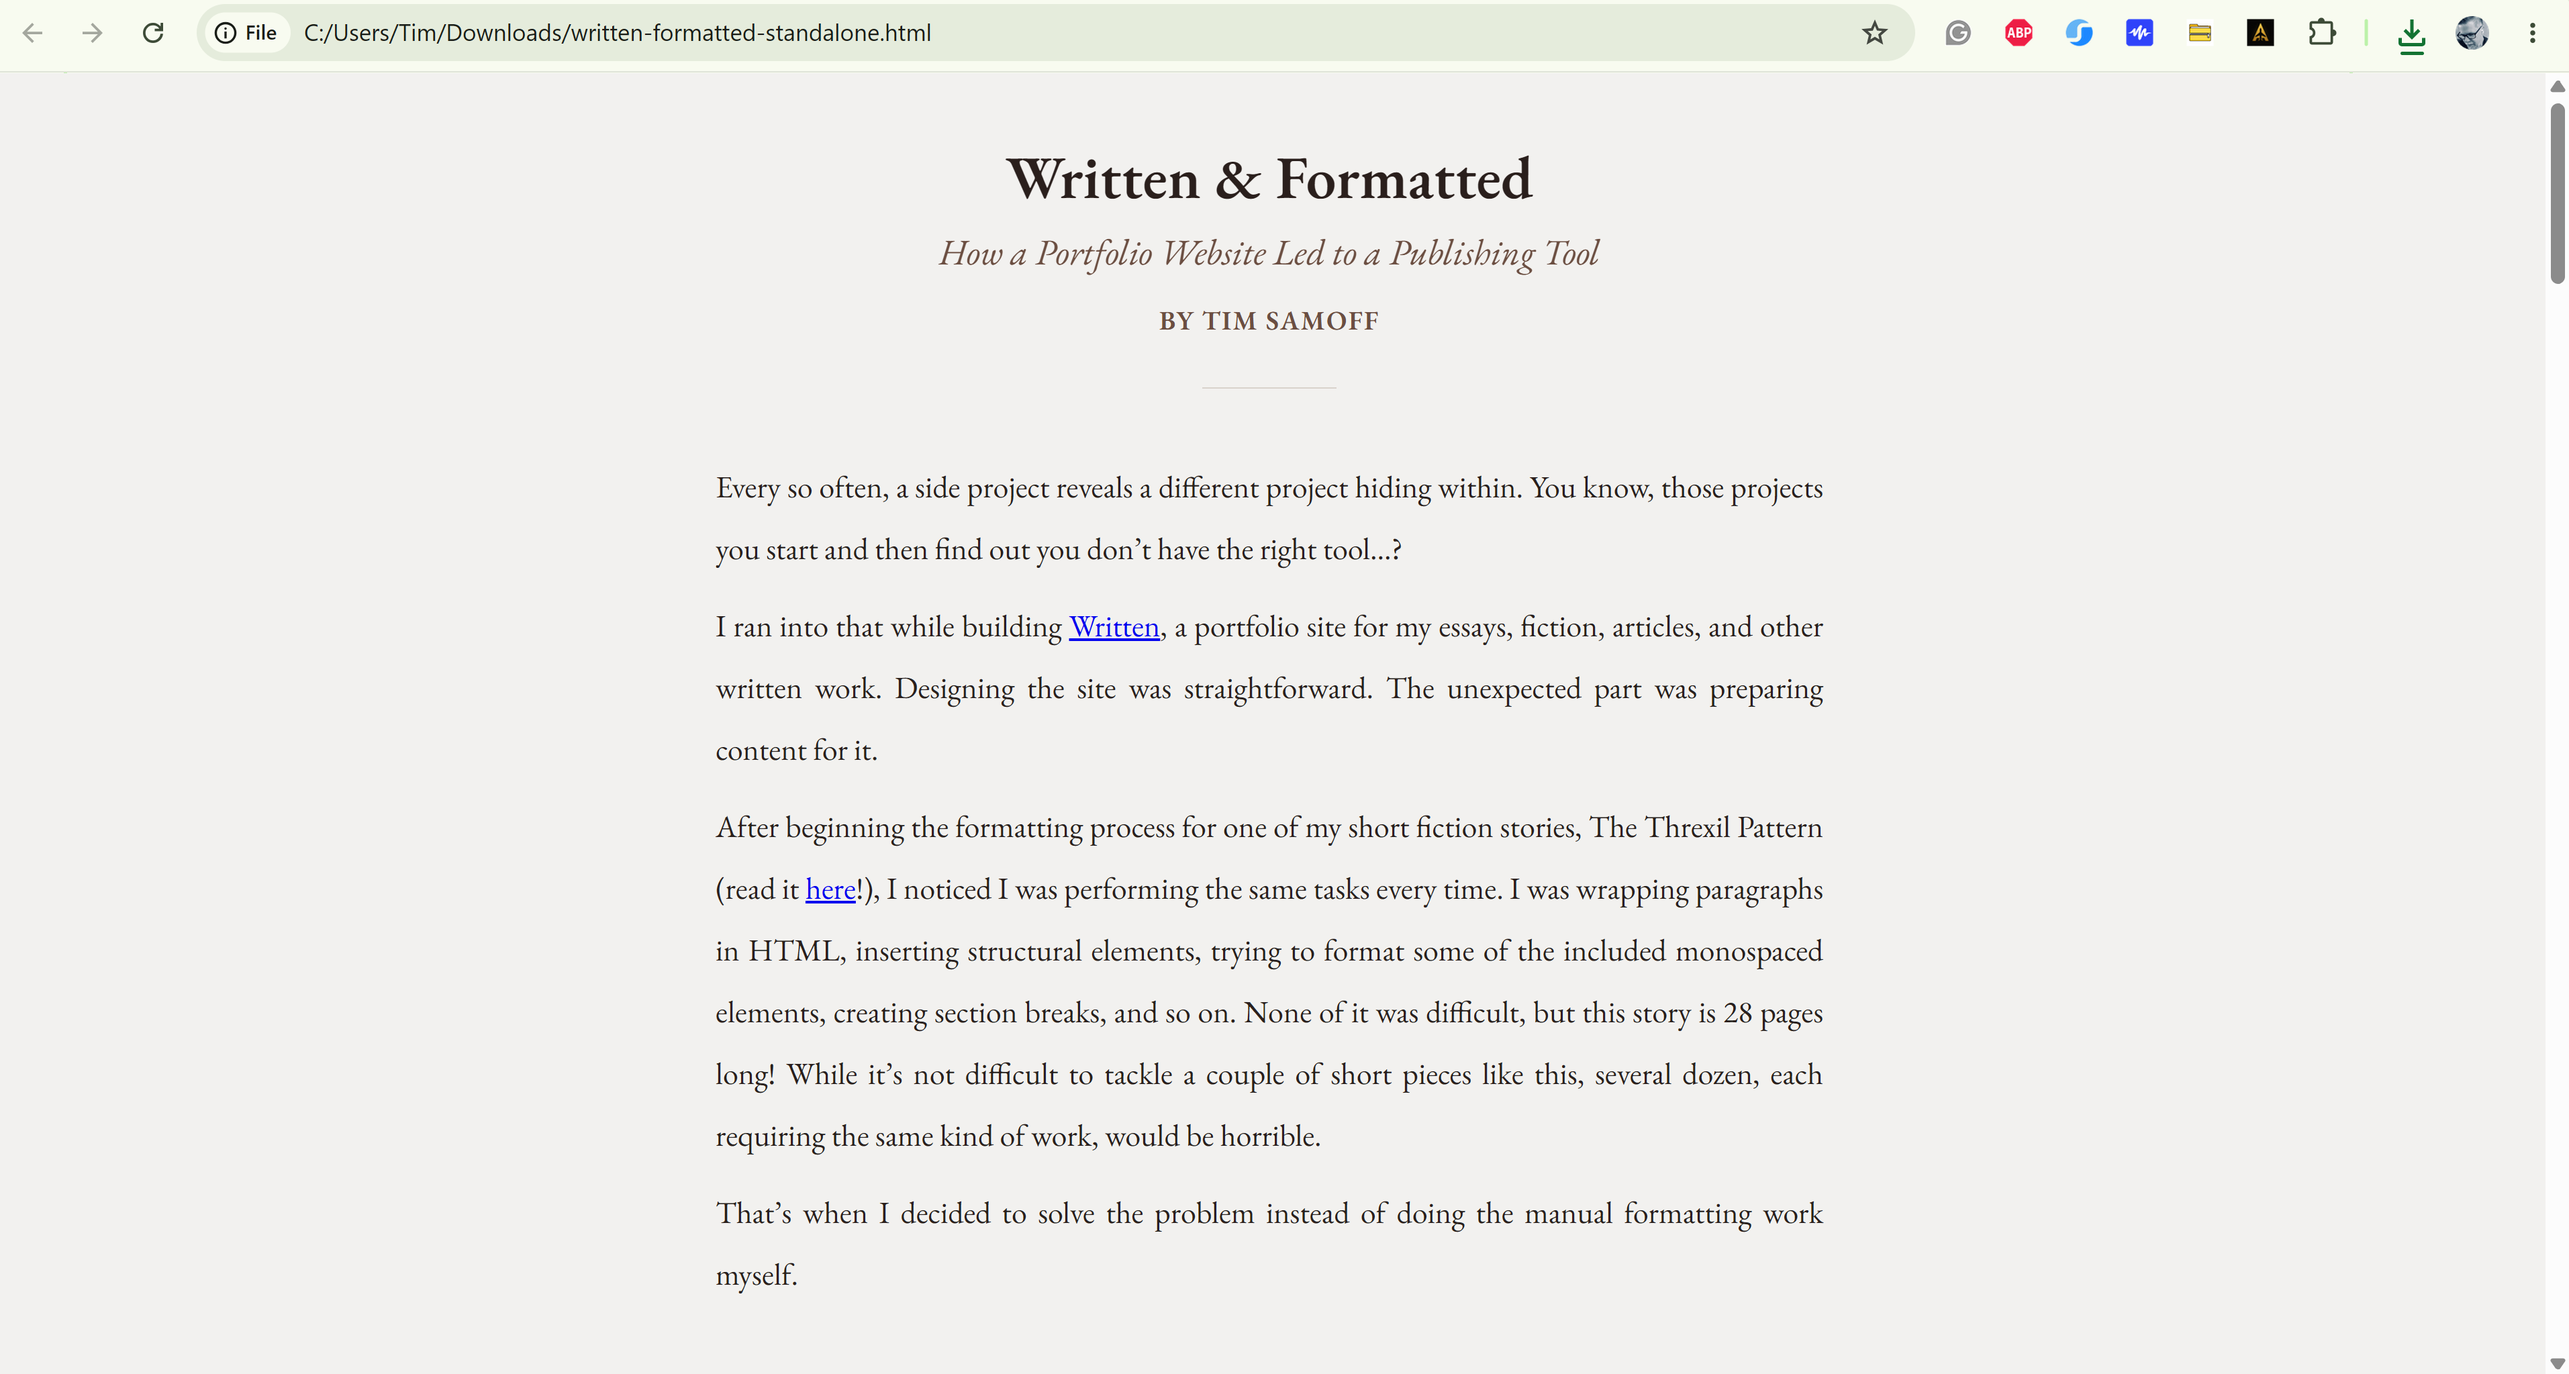
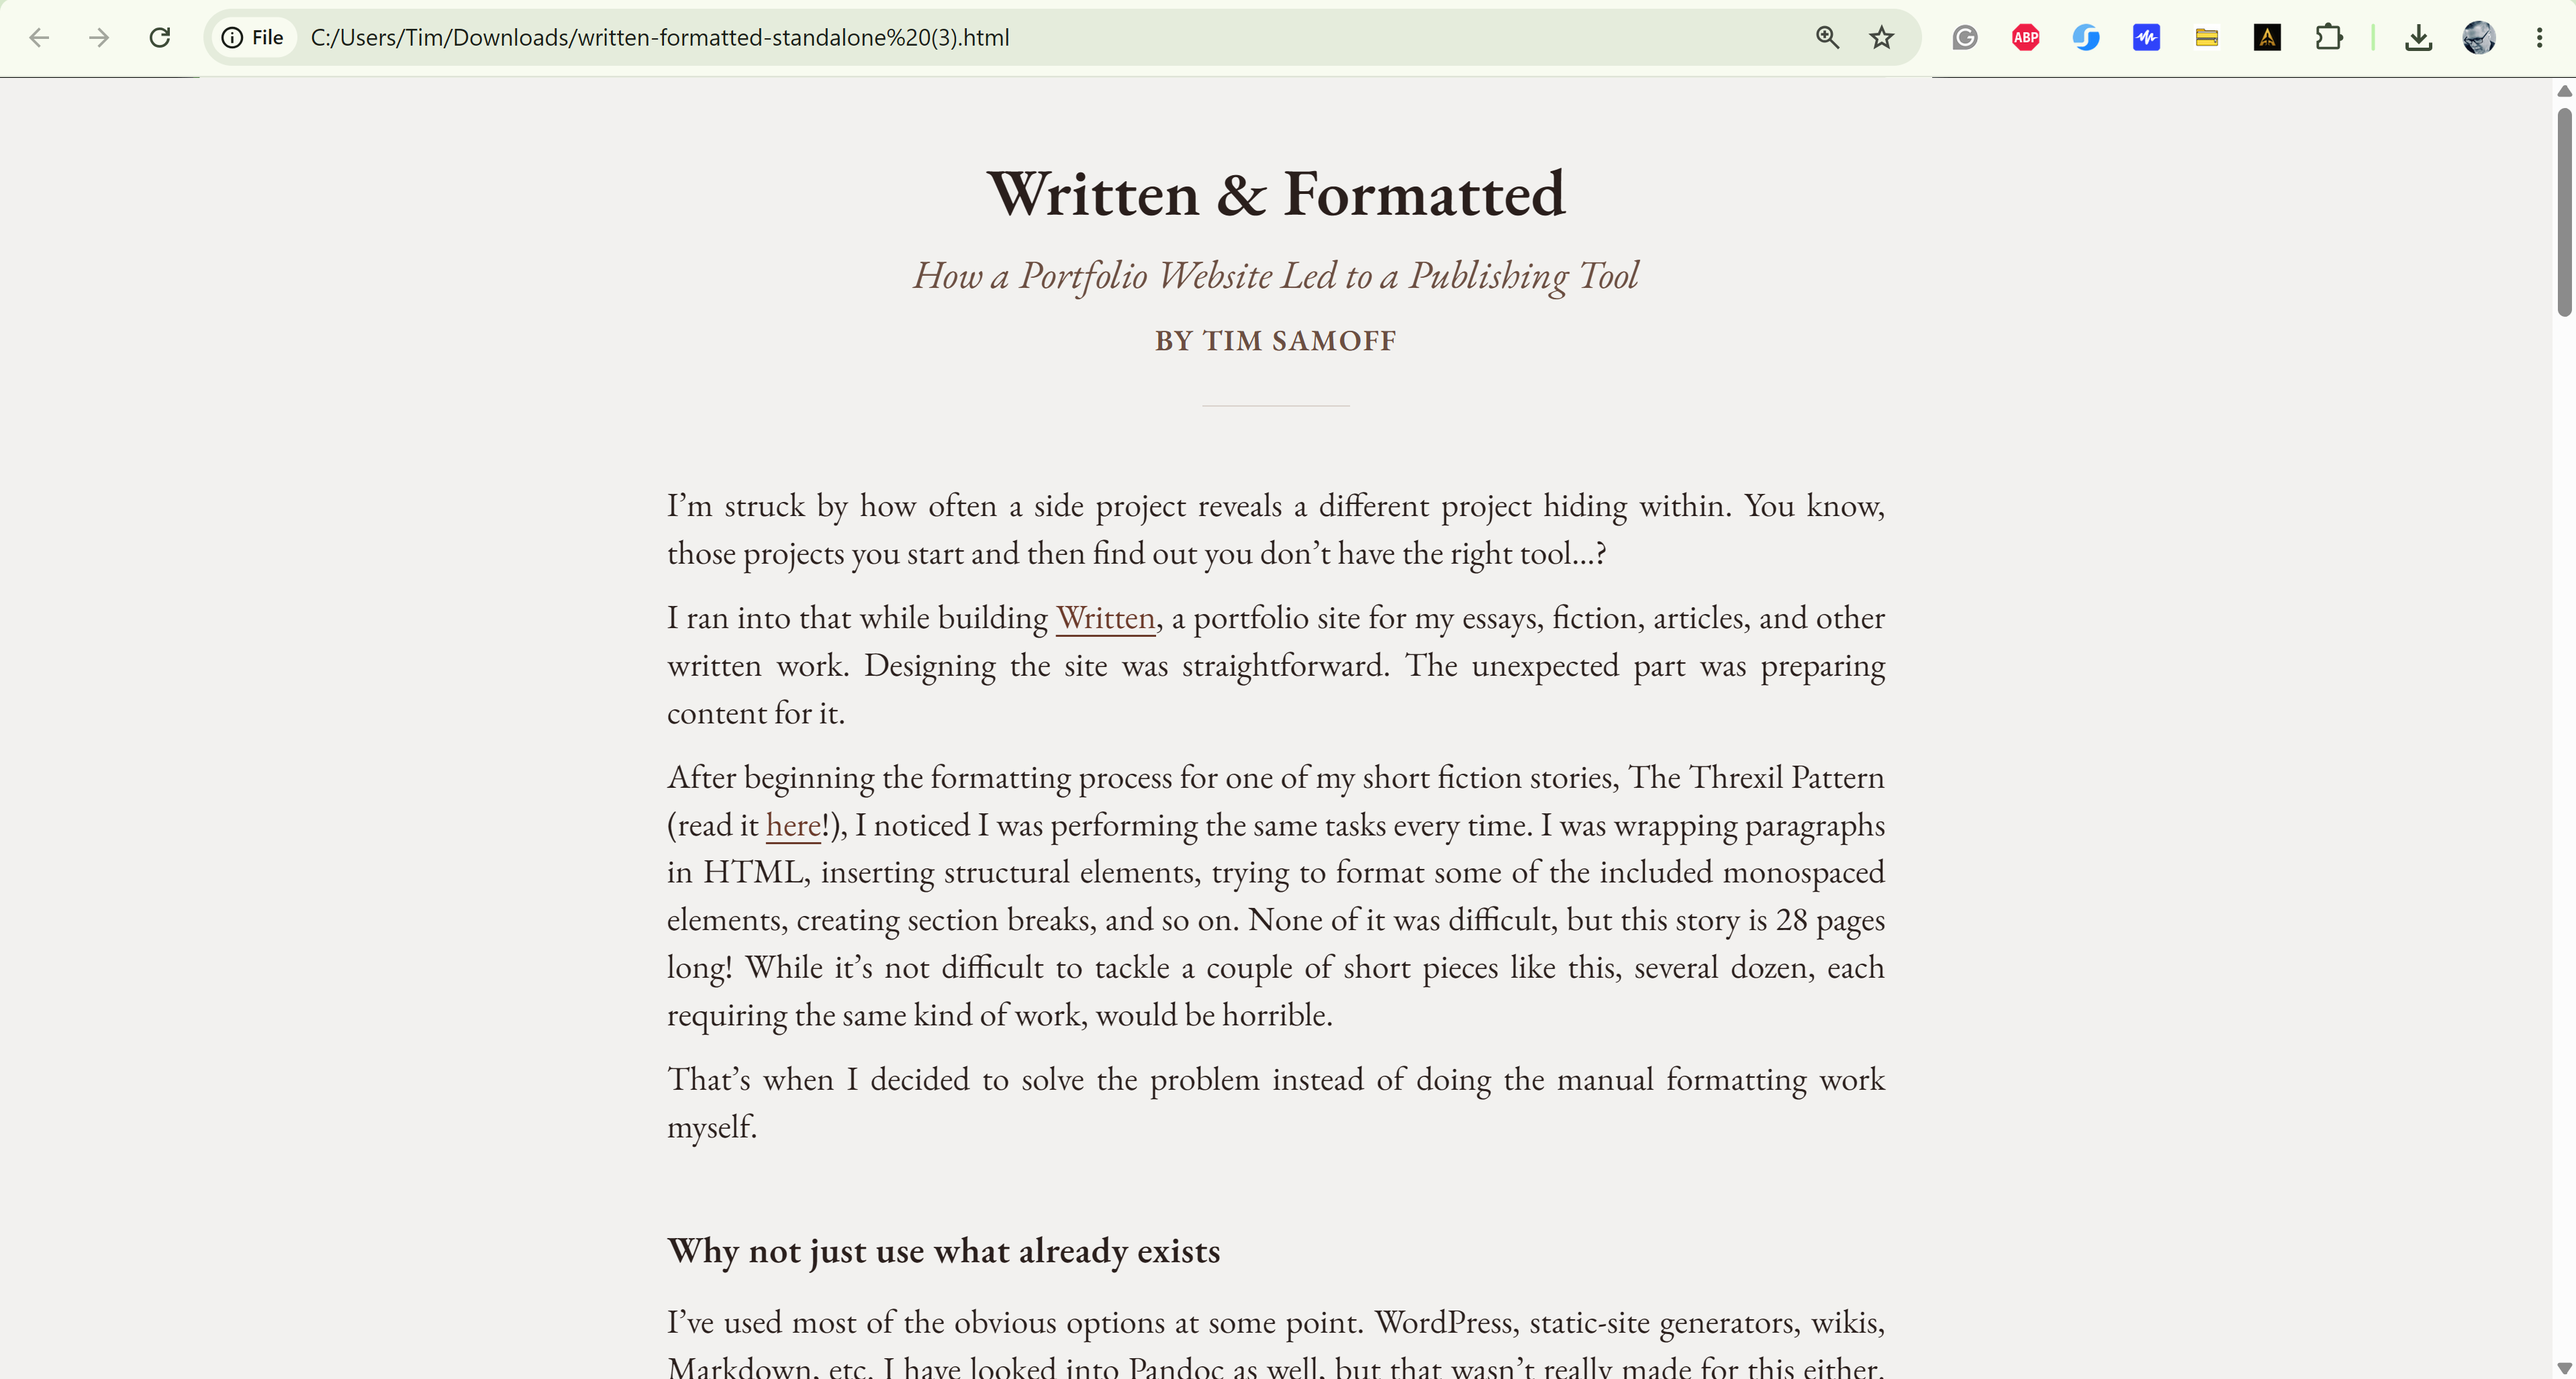
Some article edits

diff --git a/writing/articles/written-formatted.html b/writing/articles/written-formatted.html
@@ -57,15 +57,15 @@
                     <p class="story-subtitle">How a Portfolio Website Led to a Publishing Tool</p>
                     <div class="pill-container">
                         <span class="pill">Article</span>
-                        <span class="pill">Technology</span>
+                        <span class="pill">Software Development</span>
                         <span class="pill">Writing</span>
                     </div>
                 </header>
 
                 <article class="story-content ls-1">
-                    <p class="no-indent">Every so often, a side project reveals a different project hiding within. You know, those projects you start and then find out you don't have the right tool…?</p>
-                    <p class="no-indent">I ran into that while building <a href="https://samoff.com/written" target="_blank" rel="noopener">Written</a>, a portfolio site for my essays, fiction, articles, and other written work. Designing the site was straightforward. The unexpected part was preparing content for it.</p>
-                    <p class="no-indent">After beginning the formatting process for one of my short fiction stories, The Threxil Pattern (read it <a href="https://samoff.com/written/writing/shorts/threxil.html" target="_blank" rel="noopener">here</a>!), I noticed I was performing the same tasks every time. I was wrapping paragraphs in HTML, inserting structural elements, trying to format some of the included monospaced elements, creating section breaks, and so on. None of it was difficult, but this story is 28 pages long! While it's not difficult to tackle a couple of short pieces like this, several dozen, each requiring the same kind of work, would be horrible.</p>
+                    <p class="no-indent">I’m struck by how often a side project reveals a different project hiding within. You know, those projects you start and then find out you don't have the right tool…?</p>
+                    <p class="no-indent">I ran into that while building <a href="https://samoff.com/written" target="_blank" rel="noopener">Written</a>, a portfolio site for my essays, fiction, articles, and other written work. Designing the actual portfolio site was pretty straightforward. The unexpected part was preparing content for it.</p>
+                    <p class="no-indent">After beginning the formatting process for one of my short fiction pieces, The <em>Threxil Pattern</em> (read it <a href="https://samoff.com/written/writing/shorts/threxil.html" target="_blank" rel="noopener">here</a>!), I noticed I was performing the same tasks every time. I was wrapping paragraphs in HTML, inserting structural elements, trying to format some of the included monospaced elements, creating section breaks, and so on. None of it was difficult, but this story is 28 pages long! While it's not difficult to tackle a couple of short pieces like this, several dozen, each requiring the same kind of work, would be horrible.</p>
                     <p class="no-indent">That's when I decided to solve the problem instead of doing the manual formatting work myself.</p>
 
                     <h2 class="section-heading">Why not just use what already exists</h2>
@@ -99,6 +99,7 @@
 
                     <h3 class="subsection-heading">Current core features include:</h3>
                     <ul>
+                        <li>100% accessible for screen readers and keyboard navigation</li>
                         <li>Real-time plain text-to-HTML conversion with live preview</li>
                         <li>Tagging toolbar and collapsible syntax reference</li>
                         <li>Semantic document structures: titles, bylines, section headings, auto-linked footnotes, and citations with return links</li>

diff --git a/index.html b/index.html
@@ -65,7 +65,7 @@
             <label class="filter-label">Concept / Topic</label>
             <div class="filter-buttons" id="concept-filters">
                 <button class="filter-chip active" data-filter="all">All</button>
-                <button class="filter-chip" data-filter="technology">Technology</button>
+                <button class="filter-chip" data-filter="technology">Software Development</button>
                 <button class="filter-chip" data-filter="writing">Writing</button>
                 <button class="filter-chip" data-filter="post-apocalyptic">Post-Apocalyptic</button>
                 <button class="filter-chip" data-filter="publishing">Publishing</button>
@@ -113,20 +113,7 @@
                         <td class="toc-tags">
                             <div class="pill-container">
                                 <span class="pill">Article</span>
-                                <span class="pill">Technology</span>
-                                <span class="pill">Writing</span>
-                            </div>
-                        </td>
-                    </tr>
-                    <tr data-genres='["guide"]' data-concepts='["post-apocalyptic","writing"]'>
-                        <td class="toc-date">TBD</td>
-                        <td class="toc-title">
-                            <a href="#">Survival Writing Guide</a>
-                        </td>
-                        <td class="toc-tags">
-                            <div class="pill-container">
-                                <span class="pill">Guide</span>
-                                <span class="pill">Post-Apocalyptic</span>
+                                <span class="pill">Software Development</span>
                                 <span class="pill">Writing</span>
                             </div>
                         </td>
